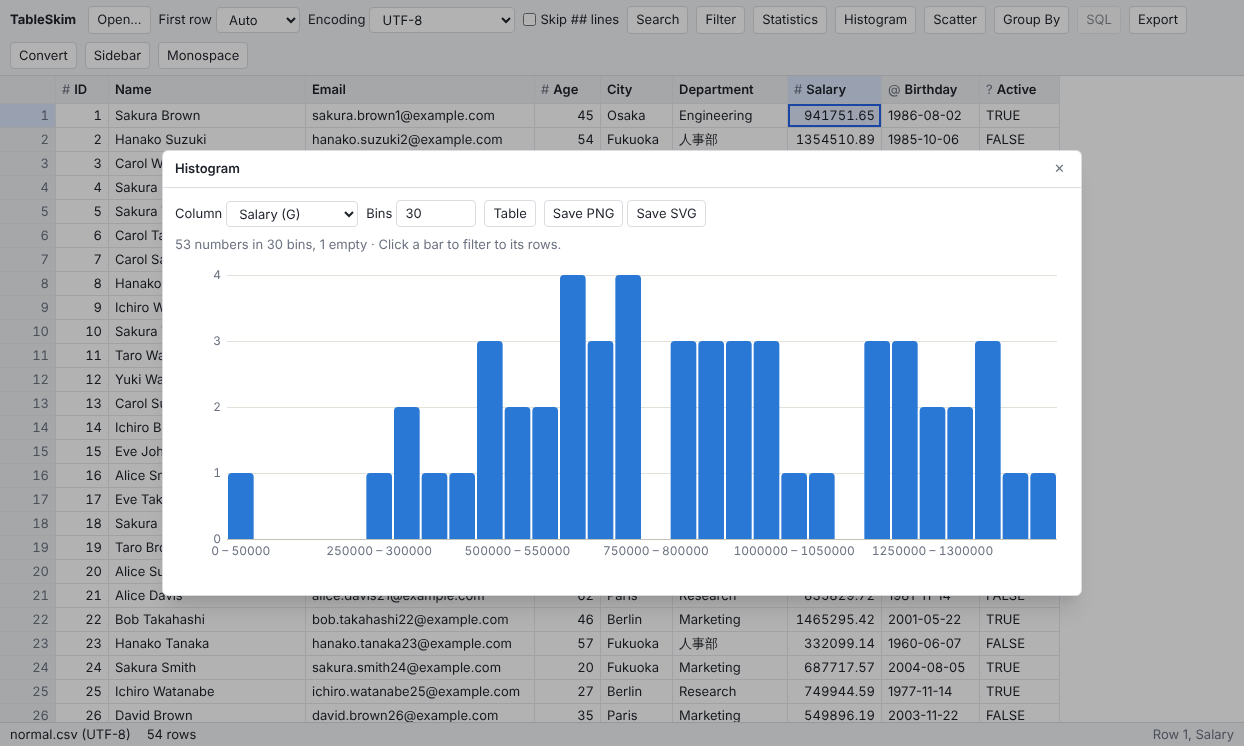
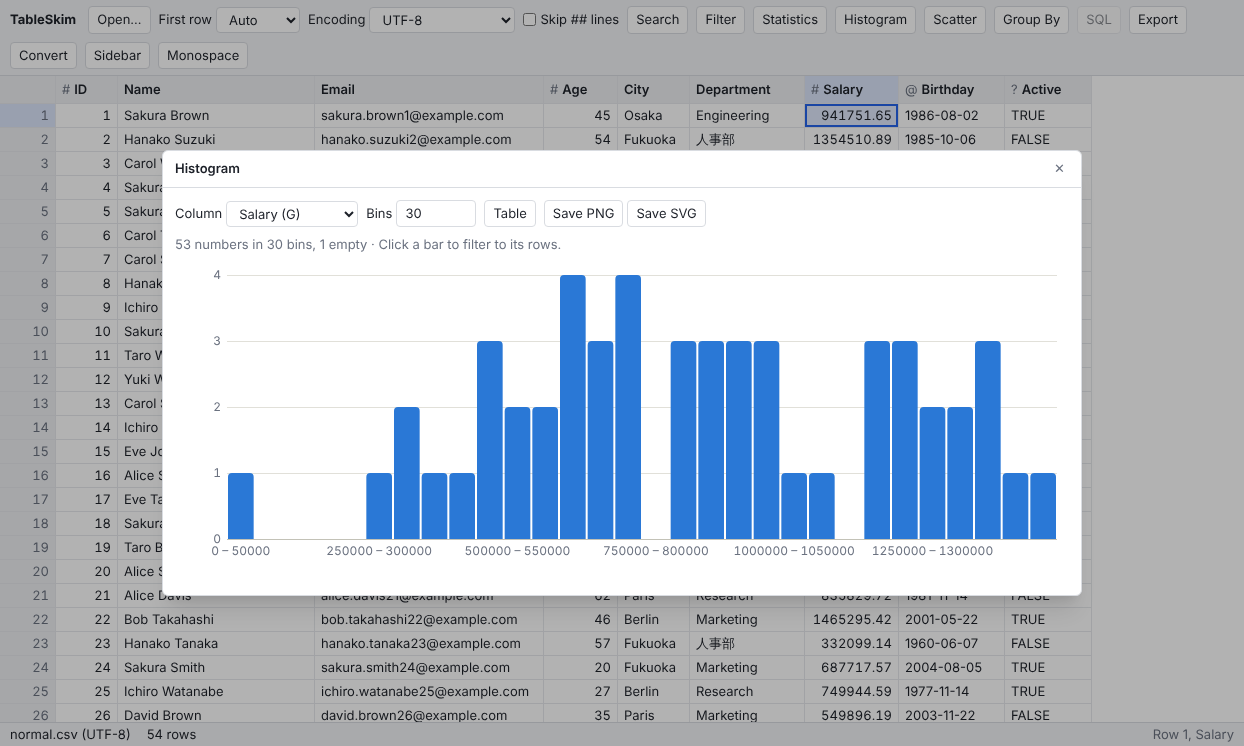
Add the script that takes the web app's manual screenshots
The screenshots in docs/images/web-*.png were taken by a script kept
nowhere, so taking them again after a change to the app meant writing
it anew. web/screenshots.cjs (npm run screenshots) opens the built app
in headless Chromium, as the end-to-end tests do, and takes each view
at the manual's size; TABLESKIM_SCREENSHOTS picks some of them.

- The SQL example orders cities with as many people by name, so that
  the result, and the image, are the same each time.
- web-histogram.png and web-sql.png are the script's output.

Claude-Session: https://claude.ai/code/session_0163eN5cgLSoV7K9mvEGnqGU

diff --git a/src/wasm/README.md b/src/wasm/README.md
@@ -128,6 +128,16 @@ build's list plus Emscripten's runtime and the bundled npm packages) and a
 (the `web` job of `.github/workflows/release.yml`), the download pages list
 it, and CI uploads its folder as the `tableskim-web` artifact.
 
+The manual's screenshots of the web app (`docs/images/web-*.png`) are
+taken from the built app by `web/screenshots.cjs` (Playwright, as the
+end-to-end tests), the same views at the same size each time; take them
+again after changing what they show, and look at each before committing:
+
+```sh
+LANG=C.UTF-8 node web/screenshots.cjs                  # all, into docs/images
+TABLESKIM_SCREENSHOTS=web-sql.png node web/screenshots.cjs build/wasm-release /tmp/shots
+```
+
 `node web/serve.mjs build/wasm-release` serves the app CMake built (or
 `web/dist/`) at http://127.0.0.1:8765/ and the probe page at `/probe/`.
 

diff --git a/AGENTS.md b/AGENTS.md
@@ -519,7 +519,9 @@ Match the existing code:
   first, and `npx playwright install chromium` for the browser). CI runs
   them, with the lint and format checks, in the `wasm` job of
   `.github/workflows/ci.yml`. Wait for what the page shows, never for
-  fixed periods.
+  fixed periods. `web/screenshots.cjs` takes the manual's screenshots of
+  the web app (`docs/images/web-*.png`) the same way; run it after
+  changing what they show.
 - The GUI is tested in-process by `tableskim-gui-tests` (`tests/gui/`,
   Linux only), which links `tableskim-gui` and runs under Xvfb: ctest
   starts it with `xvfb-run -a` (`TABLESKIM_GUI_TESTS`: `AUTO` when
